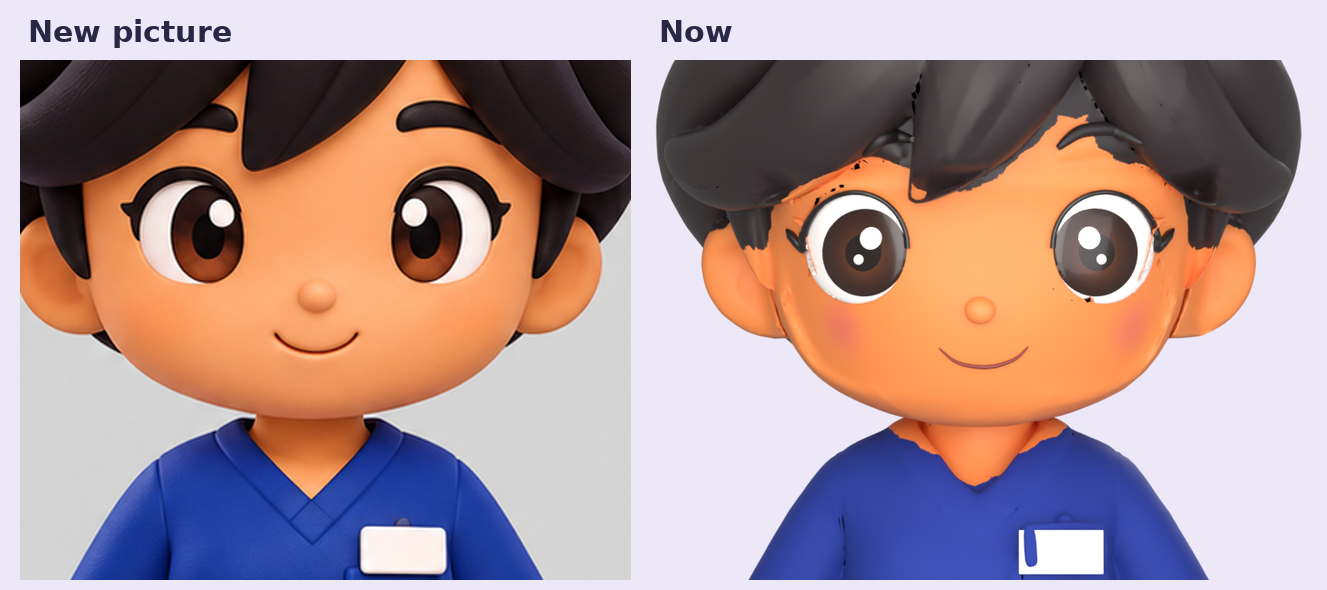
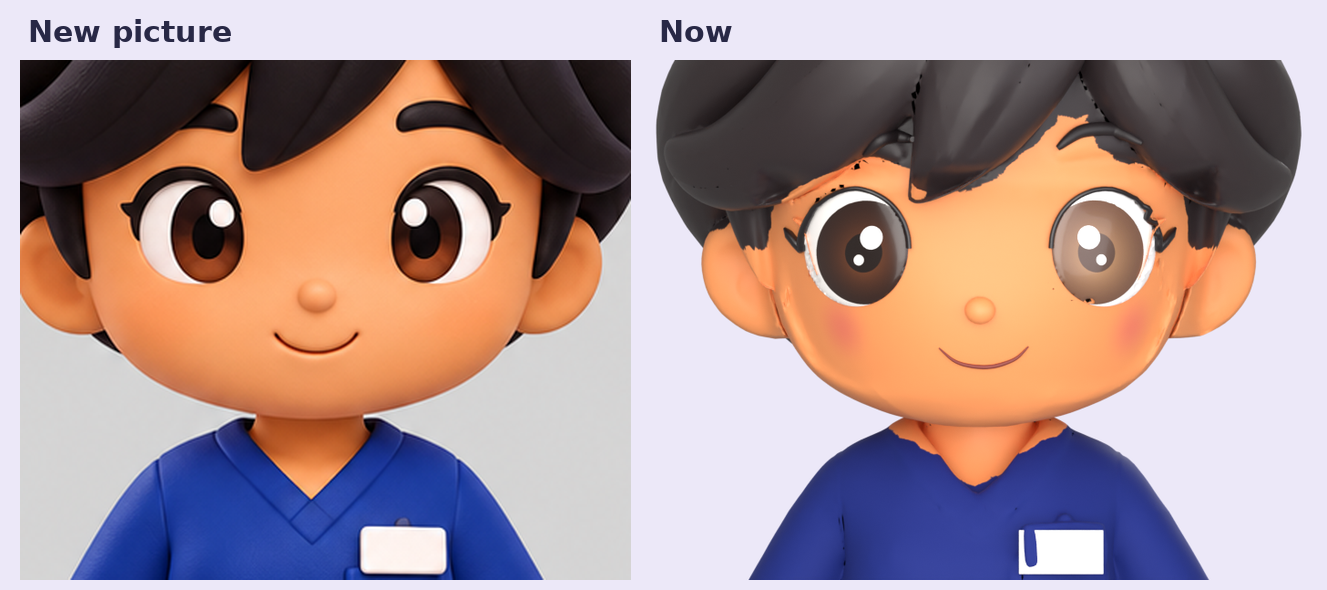
Figures: second nurse recoloured to the picture, before/after boards, handoff note
Claude-Session: https://claude.ai/code/session_01URjRTzQ2mSww3QM2VRj7tw

Changed region(s): [[0.587, 0.7932, 0.896, 1.0], [0.7724, 0.3051, 0.896, 0.5186], [0.587, 0.3051, 0.7106, 0.5186]]

diff --git a/docs/handoff.md b/docs/handoff.md
@@ -28,6 +28,18 @@ installing tools), tests passed, his "Not yet" on 2026-11-04.
 Live in the app (done): practice scenes in the memory trainer (#197, b1104.1059), with the figures cut straight
 from his drawing (#201, b1104.1206).
 
+## Second nurse (2026-11-04 night, Jose's ChatGPT picture)
+
+`docs/art/nurse-single.png` (Jose made it in ChatGPT from the prompt in this chat: the nurse alone, straight on,
+even light). Tripo views task `13a857b8-fa64-4f6a-b5a4-54b9d5c291cc` (10), `multiview_to_model` v3.1 detailed
+geometry, standard paint, task `6718c65f-0a73-45f3-ab5f-79e63653e5ee` (50); balance 575. Slimmed with
+`tools/toy/slim.py` (0.1) to `tripo/nurse2.glb`. Same clean rebuild, per-figure zones and face layout in
+`tools/toy/nurse2/` (`run.sh tag front|three|face`, needs `MERGE=3e-4` for the slimmed seams).
+Pictures: `nurse-toy2.png`, `nurse-toy2-face.png`. Much better proportions and a round face. Left: eyes rounder
+and more goggly than the picture, a blue line on the badge, black specks on the pant cuffs, a rough hairline on the
+forehead, arms touching the sides. V2 API still works on api.tripo3d.ai (upload gives `image_token`; multiview task
+takes `files` front, left, back, right).
+
 ## Clean rebuild (2026-11-04 evening, Jose picked it)
 
 Why the earlier rounds kept missing: we painted over Tripo's paint. Now shape and colour are apart, like a toy:
